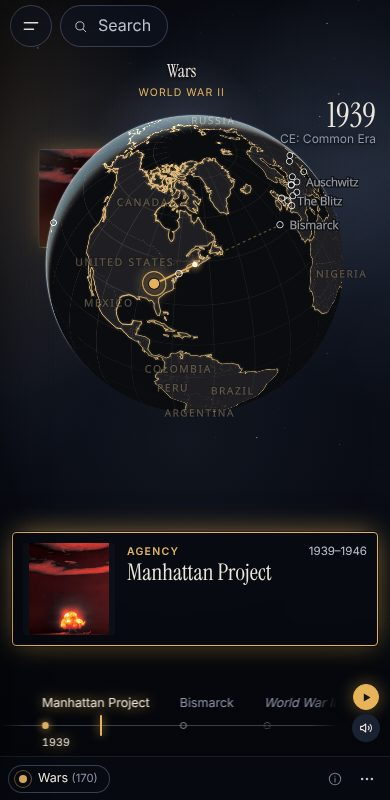
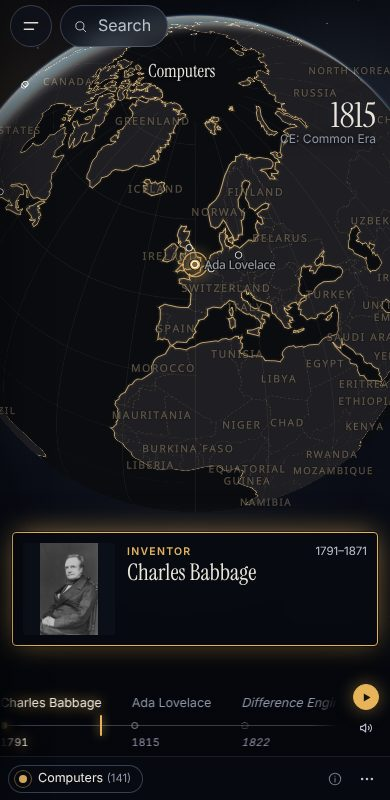
README: the globe leads, with Computers and The Universe
Claude-Session: https://claude.ai/code/session_01MCuMSgzQoDJvqKiMgpT1d3

diff --git a/README.md b/README.md
@@ -8,50 +8,45 @@
 <p align="center"><em>Nothing ships forever.</em></p>
 
 [codegrave.com](https://codegrave.com) is an encyclopedia drawn as a
-timeline. Time runs into the screen like a road, every entry is a line from
-its start to its end, and play carries you along it: a person from birth to
-death, an empire from founding to fall, a computer from launch to retirement.
+timeline on the Earth. Every entry stands where it happened, and play
+carries you through time from place to place: a person from birth to death,
+an empire from founding to fall, a computer from launch to retirement.
 Click any card to read its history, with dates, sources and pictures.
 
 <table>
   <tr>
-    <td width="74%" valign="top"><img src="docs/screenshots/road.jpg" alt="The Space Race and Computers as two lanes of a road running into the distance, with cards where things began and pictures floating beside the road"></td>
-    <td width="26%" valign="top"><img src="docs/screenshots/road-phone.jpg" alt="The Space Race on a phone"></td>
+    <td width="74%" valign="top"><img src="docs/screenshots/globe.jpg" alt="The Computers view on the globe: Charles Babbage written beside his pin in England, with the entries named along the time line at the bottom"></td>
+    <td width="26%" valign="top"><img src="docs/screenshots/globe-phone.jpg" alt="The Computers view on a phone"></td>
   </tr>
 </table>
+
+The globe is a preview: add `?globe` to a link to open it, for example
+[`/wiki/computer-generations?globe`](https://codegrave.com/wiki/computer-generations?globe)
+or [`/wiki/the-universe?globe`](https://codegrave.com/wiki/the-universe?globe).
 
 ## What you can do
 
-- **Pick a subject.** About seventy views under five topics: Countries,
+- **Pick a subject.** About 230 views under five topics: Countries,
   Culture, History, Science and Technology (for example Ancient Egypt,
-  World War II, Dinosaurs, Video Games, Nepal).
-- **Play.** The road moves at an even pace; each card opens for a moment
-  as you reach it, and pictures and films of what is on screen float
-  beside the road. Country views can play their national anthem.
-- **Compare.** Put two views side by side, each in its own lane, to see
-  what happened at the same time.
+  Wars, Dinosaurs, Video Games, Nepal).
+- **Play.** The globe turns from one place to the next at a steady pace,
+  and each entry is written beside its pin as you reach it. Set the speed
+  in the three-dot menu. Country views can play their national anthem.
+- **Drag the time line.** The entries stand by name along the bottom; drag
+  it, or click a name, to go there.
+- **Leave the Earth.** A subject with no place on the map, such as The
+  Universe, flies on among the stars, each picture filling the sky.
 - **Search.** Find a person, a place, an event or a year (try `44 BCE`).
+- **Make your own.** Describe a timeline in a sentence and it is written
+  for you, to keep, edit and publish.
 - **Share.** The link keeps the views and the open entry.
 
-<p align="center"><img src="docs/screenshots/countries.jpg" width="80%" alt="The Nepal view with the panel open on the Countries topic, each country shown by its flag"></p>
+<p align="center"><img src="docs/screenshots/globe-space.jpg" width="80%" alt="The Universe view: its first entry among the stars, with a deep-field picture of galaxies filling the sky behind it"></p>
 
-### The globe (preview)
+The map is drawn with MapLibre, OpenFreeMap and Natural Earth, and places
+come from Wikidata.
 
-Add `?globe` to any link (for example
-[`/wiki/wars?globe&yr=1939-1945`](https://codegrave.com/wiki/wars?globe&yr=1939-1945))
-to travel the same timeline on the Earth: play turns the globe from place to
-place, each entry is written beside its pin, the time line along the bottom
-can be dragged, and subjects with no place on Earth fly on among the stars.
-It is a first version, built on MapLibre, OpenFreeMap and Natural Earth.
-
-<table>
-  <tr>
-    <td width="74%" valign="top"><img src="docs/screenshots/globe.jpg" alt="World War II on the globe: the Manhattan Project written beside its pin in the United States, with the time line of entries along the bottom"></td>
-    <td width="26%" valign="top"><img src="docs/screenshots/globe-phone.jpg" alt="The globe on a phone"></td>
-  </tr>
-</table>
-
-The data is open: about 4,500 entries, each one file with its sources.
+The data is open: about 7,500 entries, each one file with its sources.
 Anyone can fix a fact, add an entry or publish a view.
 
 ## Quick start
